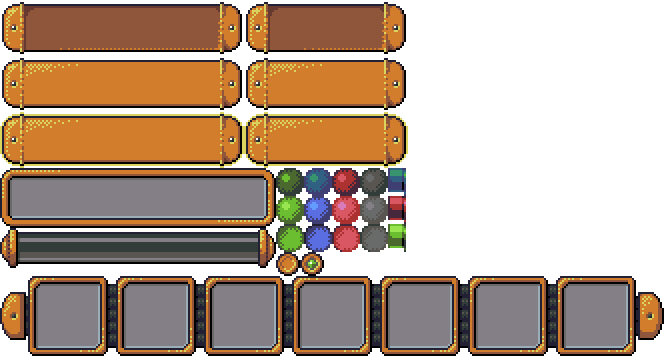
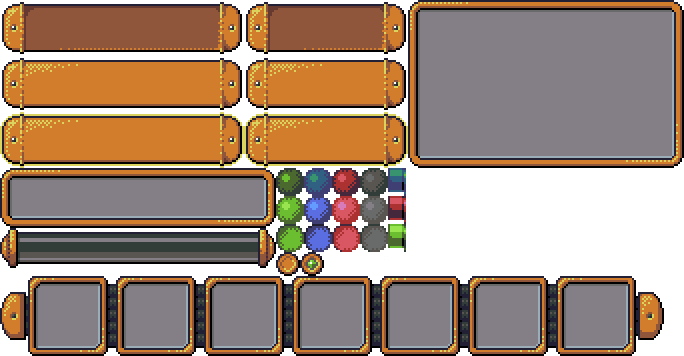
poorly implemented but functional tooltips

diff --git a/ExNihilo/Menus/CharacterMenu.cs b/ExNihilo/Menus/CharacterMenu.cs
@@ -266,8 +266,7 @@ namespace ExNihilo.Menus
         public CharacterMenu(GameContainer container, World world) : base(container)
         {
             _world = world;
-            var rules = new ScaleRuleSet();
-            rules.AddRules
+            var rules = new ScaleRuleSet
             (
                 new ScaleRule(1.5f, 1400, 1000),
                 new ScaleRule(3, 2100, 1500),
@@ -321,6 +320,30 @@ namespace ExNihilo.Menus
             var deleteButton5Icon = new UIElement("Delete5Icon", "UI/icon/No", new Coordinate(), ColorScale.Ghost, deleteButton5, TextureUtilities.PositionType.Center, TextureUtilities.PositionType.Center);
             var deleteButton6Icon = new UIElement("Delete6Icon", "UI/icon/No", new Coordinate(), ColorScale.Ghost, deleteButton6, TextureUtilities.PositionType.Center, TextureUtilities.PositionType.Center);
             var deleteButton7Icon = new UIElement("Delete7Icon", "UI/icon/No", new Coordinate(), ColorScale.Ghost, deleteButton7, TextureUtilities.PositionType.Center, TextureUtilities.PositionType.Center);
+
+            var charInfo1 = new UIElement("CharInfo1", "UI/field/LargeEntryBox", new Coordinate(), ColorScale.White, charPanel1, TextureUtilities.PositionType.BottomLeft, TextureUtilities.PositionType.TopLeft);
+            var charInfo2 = new UIElement("CharInfo2", "UI/field/LargeEntryBox", new Coordinate(), ColorScale.White, charPanel2, TextureUtilities.PositionType.CenterBottom, TextureUtilities.PositionType.TopLeft);
+            var charInfo3 = new UIElement("CharInfo3", "UI/field/LargeEntryBox", new Coordinate(), ColorScale.White, charPanel3, TextureUtilities.PositionType.CenterBottom, TextureUtilities.PositionType.TopLeft);
+            var charInfo4 = new UIElement("CharInfo4", "UI/field/LargeEntryBox", new Coordinate(), ColorScale.White, charPanel4, TextureUtilities.PositionType.CenterBottom, TextureUtilities.PositionType.TopLeft);
+            var charInfo5 = new UIElement("CharInfo5", "UI/field/LargeEntryBox", new Coordinate(), ColorScale.White, charPanel5, TextureUtilities.PositionType.CenterBottom, TextureUtilities.PositionType.TopLeft);
+            var charInfo6 = new UIElement("CharInfo6", "UI/field/LargeEntryBox", new Coordinate(), ColorScale.White, charPanel6, TextureUtilities.PositionType.CenterBottom, TextureUtilities.PositionType.TopLeft);
+            var charInfo7 = new UIElement("CharInfo7", "UI/field/LargeEntryBox", new Coordinate(), ColorScale.White, charPanel7, TextureUtilities.PositionType.BottomRight, TextureUtilities.PositionType.TopLeft);
+
+            var charInfoText1 = new UIText("CharInfoText1", new Coordinate(14, 14), "Box1", ColorScale.Black, charInfo1, TextureUtilities.PositionType.TopLeft, TextureUtilities.PositionType.TopLeft);
+            var charInfoText2 = new UIText("CharInfoText2", new Coordinate(14, 14), "Box2", ColorScale.Black, charInfo2, TextureUtilities.PositionType.TopLeft, TextureUtilities.PositionType.TopLeft);
+            var charInfoText3 = new UIText("CharInfoText3", new Coordinate(14, 14), "Box3", ColorScale.Black, charInfo3, TextureUtilities.PositionType.TopLeft, TextureUtilities.PositionType.TopLeft);
+            var charInfoText4 = new UIText("CharInfoText4", new Coordinate(14, 14), "Box4", ColorScale.Black, charInfo4, TextureUtilities.PositionType.TopLeft, TextureUtilities.PositionType.TopLeft);
+            var charInfoText5 = new UIText("CharInfoText5", new Coordinate(14, 14), "Box5", ColorScale.Black, charInfo5, TextureUtilities.PositionType.TopLeft, TextureUtilities.PositionType.TopLeft);
+            var charInfoText6 = new UIText("CharInfoText6", new Coordinate(14, 14), "Box6", ColorScale.Black, charInfo6, TextureUtilities.PositionType.TopLeft, TextureUtilities.PositionType.TopLeft);
+            var charInfoText7 = new UIText("CharInfoText7", new Coordinate(14, 14), "Box7", ColorScale.Black, charInfo7, TextureUtilities.PositionType.TopLeft, TextureUtilities.PositionType.TopLeft);
+
+            charPanel1.AddTooltip(new Coordinate(60, 60), new Vector2(0, -17), charInfo1, charInfoText1);
+            charPanel2.AddTooltip(new Coordinate(60, 60), new Vector2(0, -17), charInfo2, charInfoText2);
+            charPanel3.AddTooltip(new Coordinate(60, 60), new Vector2(0, -17), charInfo3, charInfoText3);
+            charPanel4.AddTooltip(new Coordinate(60, 60), new Vector2(0, -17), charInfo4, charInfoText4);
+            charPanel5.AddTooltip(new Coordinate(60, 60), new Vector2(0, -17), charInfo5, charInfoText5);
+            charPanel6.AddTooltip(new Coordinate(60, 60), new Vector2(0, -17), charInfo6, charInfoText6);
+            charPanel7.AddTooltip(new Coordinate(60, 60), new Vector2(0, -17), charInfo7, charInfoText7);
 
             backButton.RegisterCallback(CloseMenu);
             newCharButton.RegisterCallback(MakeNewChar);

diff --git a/ExNihilo/UI/UIPanel.cs b/ExNihilo/UI/UIPanel.cs
@@ -11,9 +11,11 @@ namespace ExNihilo.UI
 {
     public class UIPanel : UIClickable
     {
+        protected UIPanel Tooltip;
         protected List<UIElement> Set;
-        protected Vector2 BaseSizeRel;
+        protected Vector2 BaseSizeRel, TooltipOffset;
         protected Coordinate BasePixelSize;
+        protected Point LastMousePos;
         protected bool IsRelativeToSuperior, VerticalLocked, HorizontalLocked, King;
 
         public UIPanel(string name, Vector2 relPos, Coordinate absoluteSize, UIPanel superior, TextureUtilities.PositionType anchorPoint) : 
@@ -80,6 +82,13 @@ namespace ExNihilo.UI
             Set.AddRange(elements);
         }
 
+        public virtual void AddTooltip(Coordinate size, Vector2 offset, params UIElement[] elements)
+        {
+            Tooltip = new UIPanel(GivenName+"Tooltip", new Coordinate(), size, this, TextureUtilities.PositionType.TopLeft, TextureUtilities.PositionType.TopLeft);
+            Tooltip.AddElements(elements);
+            TooltipOffset = Utilities.Copy(offset);
+        }
+
         public override void ReinterpretScale(Coordinate window)
         {
             //only for non relative sized panels
@@ -92,15 +101,31 @@ namespace ExNihilo.UI
         public override void LoadContent(GraphicsDevice graphics, ContentManager content)
         {
             base.LoadContent(graphics, content);
+            Tooltip?.LoadContent(graphics, content);
             foreach (var item in Set) item.LoadContent(graphics, content);
+        }
+
+        public override void Draw(SpriteBatch spriteBatch, Vector2 rightDownOffset)
+        {
+            if (!Loaded) return;
+            foreach (var item in Set) item.Draw(spriteBatch, rightDownOffset);
+
+            if (GameContainer.GLOBAL_DEBUG) LineDrawer.DrawSquare(spriteBatch, OriginPosition+ rightDownOffset, CurrentPixelSize.X, CurrentPixelSize.Y, Color.White, 5);
         }
 
         public override void Draw(SpriteBatch spriteBatch)
         {
             if (!Loaded) return;
             foreach (var item in Set) item.Draw(spriteBatch);
+            if (King) DrawFinal(spriteBatch);
 
             if (GameContainer.GLOBAL_DEBUG) LineDrawer.DrawSquare(spriteBatch, OriginPosition, CurrentPixelSize.X, CurrentPixelSize.Y, Color.White, 5);
+        }
+
+        public void DrawFinal(SpriteBatch spriteBatch)
+        {
+            foreach (var item in Set) (item as UIPanel)?.DrawFinal(spriteBatch);
+            if (Over) Tooltip?.Draw(spriteBatch, CurrentScale * TooltipOffset + new Vector2(LastMousePos.X - OriginPosition.X, LastMousePos.Y - OriginPosition.Y));
         }
 
         public override void OnResize(GraphicsDevice graphics, Coordinate gameWindow)
@@ -155,6 +180,7 @@ namespace ExNihilo.UI
             }
             else base.OnResize(graphics, gameWindow);
 
+            Tooltip?.OnResize(graphics, gameWindow);
             foreach (var item in Set) item.OnResize(graphics, gameWindow);
         }
 
@@ -168,6 +194,11 @@ namespace ExNihilo.UI
 
         public override void OnMoveMouse(Point point)
         {
+            if (!Disabled && Tooltip != null)
+            {
+                LastMousePos = point;
+                Over = IsOver(point);
+            }
             foreach (var item in Set)
             {
                 if (item is UIClickable click) click.OnMoveMouse(point);
@@ -190,7 +221,7 @@ namespace ExNihilo.UI
 
         public override void OnLeftRelease(Point point)
         {
-            base.OnLeftRelease(point);
+            if (!Disabled) base.OnLeftRelease(point);
             foreach (var item in Set)
             {
                 if (item is UIClickable click) click.OnLeftRelease(point);
@@ -203,6 +234,7 @@ namespace ExNihilo.UI
             {
                 if (item is UIClickable click) click.Enable();
             }
+            Tooltip?.Enable();
         }
 
         public override void Disable(ColorScale c)
@@ -211,6 +243,7 @@ namespace ExNihilo.UI
             {
                 if (item is UIClickable click) click.Disable(c);
             }
+            Tooltip?.Disable(c);
         }
 
         public virtual UIElement GetElement(string title)
@@ -229,7 +262,7 @@ namespace ExNihilo.UI
                 }
             }
 
-            return null;
+            return Tooltip?.GetElement(title);
         }
 
     }

diff --git a/ExNihilo/Systems/TextureLibrary.cs b/ExNihilo/Systems/TextureLibrary.cs
@@ -50,8 +50,7 @@ namespace ExNihilo.Systems
 
         public static void LoadRuleSets()
         {
-            DefaultScaleRuleSet = new ScaleRuleSet();
-            DefaultScaleRuleSet.AddRules
+            DefaultScaleRuleSet = new ScaleRuleSet
             (
                 new ScaleRule(1, 1400, 1000),
                 new ScaleRule(2, 2100, 1500),
@@ -59,15 +58,13 @@ namespace ExNihilo.Systems
                 new ScaleRule(4, ScaleRule.MAX_X, ScaleRule.MAX_Y)
             );
 
-            ReducedScaleRuleSet = new ScaleRuleSet();
-            ReducedScaleRuleSet.AddRules
+            ReducedScaleRuleSet = new ScaleRuleSet
             (
                 new ScaleRule(1, 2100, 1500),
                 new ScaleRule(2, ScaleRule.MAX_X, ScaleRule.MAX_Y)
             );
 
-            HalfScaleRuleSet = new ScaleRuleSet();
-            HalfScaleRuleSet.AddRules
+            HalfScaleRuleSet = new ScaleRuleSet
             (
                 new ScaleRule(0.5f, 1400, 1000),
                 new ScaleRule(1, 2100, 1500),
@@ -75,8 +72,7 @@ namespace ExNihilo.Systems
                 new ScaleRule(2, ScaleRule.MAX_X, ScaleRule.MAX_Y)
             );
 
-            DoubleScaleRuleSet = new ScaleRuleSet();
-            DoubleScaleRuleSet.AddRules
+            DoubleScaleRuleSet = new ScaleRuleSet
             (
                 new ScaleRule(2, 1400, 1000),
                 new ScaleRule(4, 2100, 1500),
@@ -84,8 +80,7 @@ namespace ExNihilo.Systems
                 new ScaleRule(8, ScaleRule.MAX_X, ScaleRule.MAX_Y)
             );
 
-            GiantScaleRuleSet = new ScaleRuleSet();
-            GiantScaleRuleSet.AddRules
+            GiantScaleRuleSet = new ScaleRuleSet
             (
                 new ScaleRule(4, 1400, 1000),
                 new ScaleRule(8, 2100, 1500),

diff --git a/ExNihilo/Util/Graphics/AnimatableTexture.cs b/ExNihilo/Util/Graphics/AnimatableTexture.cs
@@ -83,10 +83,7 @@ namespace ExNihilo.Util.Graphics
             var originVec = Vector2.Zero;
             if (origin != TextureUtilities.PositionType.TopLeft)
                 originVec = TextureUtilities.GetOffset(origin, new Coordinate(Width, Height));
-            if (TextureStrip.GraphicsDevice is null)
-            {
-                int y = 4;
-            }
+
             if (_animated)
             {
                 var frameShifts = UniversalTime.GetNumberOfFires(_timerID);

diff --git a/ExNihilo/UI/UIText.cs b/ExNihilo/UI/UIText.cs
@@ -73,6 +73,12 @@ namespace ExNihilo.UI
             LastResizeWindow = new Coordinate();
         }
 
+        public override void Draw(SpriteBatch spriteBatch, Vector2 rightDownOffset)
+        {
+            if (!Loaded) return;
+            TextDrawer.DrawSmartText(spriteBatch, OriginPosition+ rightDownOffset, Text, CurrentScale, param, Colors);
+        }
+
         public override void Draw(SpriteBatch spriteBatch)
         {
             if (!Loaded) return;

diff --git a/ExNihilo/UI/UIElement.cs b/ExNihilo/UI/UIElement.cs
@@ -115,6 +115,12 @@ namespace ExNihilo.UI
             }
         }
 
+        public virtual void Draw(SpriteBatch spriteBatch, Vector2 rightDownOffset)
+        {
+            if (!Loaded) return;
+            Texture.Draw(spriteBatch, OriginPosition+rightDownOffset, ColorScale?.Get() ?? Color.White, CurrentScale);
+        }
+
         public virtual void Draw(SpriteBatch spriteBatch)
         {
             if (!Loaded) return;

diff --git a/ExNihilo/Systems/World.cs b/ExNihilo/Systems/World.cs
@@ -161,7 +161,7 @@ namespace ExNihilo.Systems
 
         public override string ToString()
         {
-            return "World Pos: X:" + _currentWorldPosition.X + " Y:" + _currentWorldPosition.Y;
+            return "World Pos: X:" + _currentWorldPosition.X.ToString("0.00") + " Y:" + _currentWorldPosition.Y.ToString("0.00");
         }
 
     }

diff --git a/ExNihilo/Util/ScaleRule.cs b/ExNihilo/Util/ScaleRule.cs
@@ -31,6 +31,11 @@ namespace ExNihilo.Util
     {
         private readonly List<ScaleRule> _rules = new List<ScaleRule>();
 
+        public ScaleRuleSet(params ScaleRule[] rules)
+        {
+            _rules.AddRange(rules);
+        }
+
         public void AddRules(params ScaleRule[] rules)
         {
             _rules.AddRange(rules);

diff --git a/ExNihilo/Sectors/OuterworldSector.cs b/ExNihilo/Sectors/OuterworldSector.cs
@@ -18,6 +18,7 @@ namespace ExNihilo.Sectors
         private Point _lastMousePosition;
         private World _world;
 
+        //Present Menus (since they never change)
         private CharacterMenu _characterMenu;
         private DivineMenu _divineMenu;
         private MultiplayerMenu _multiplayerMenu;
